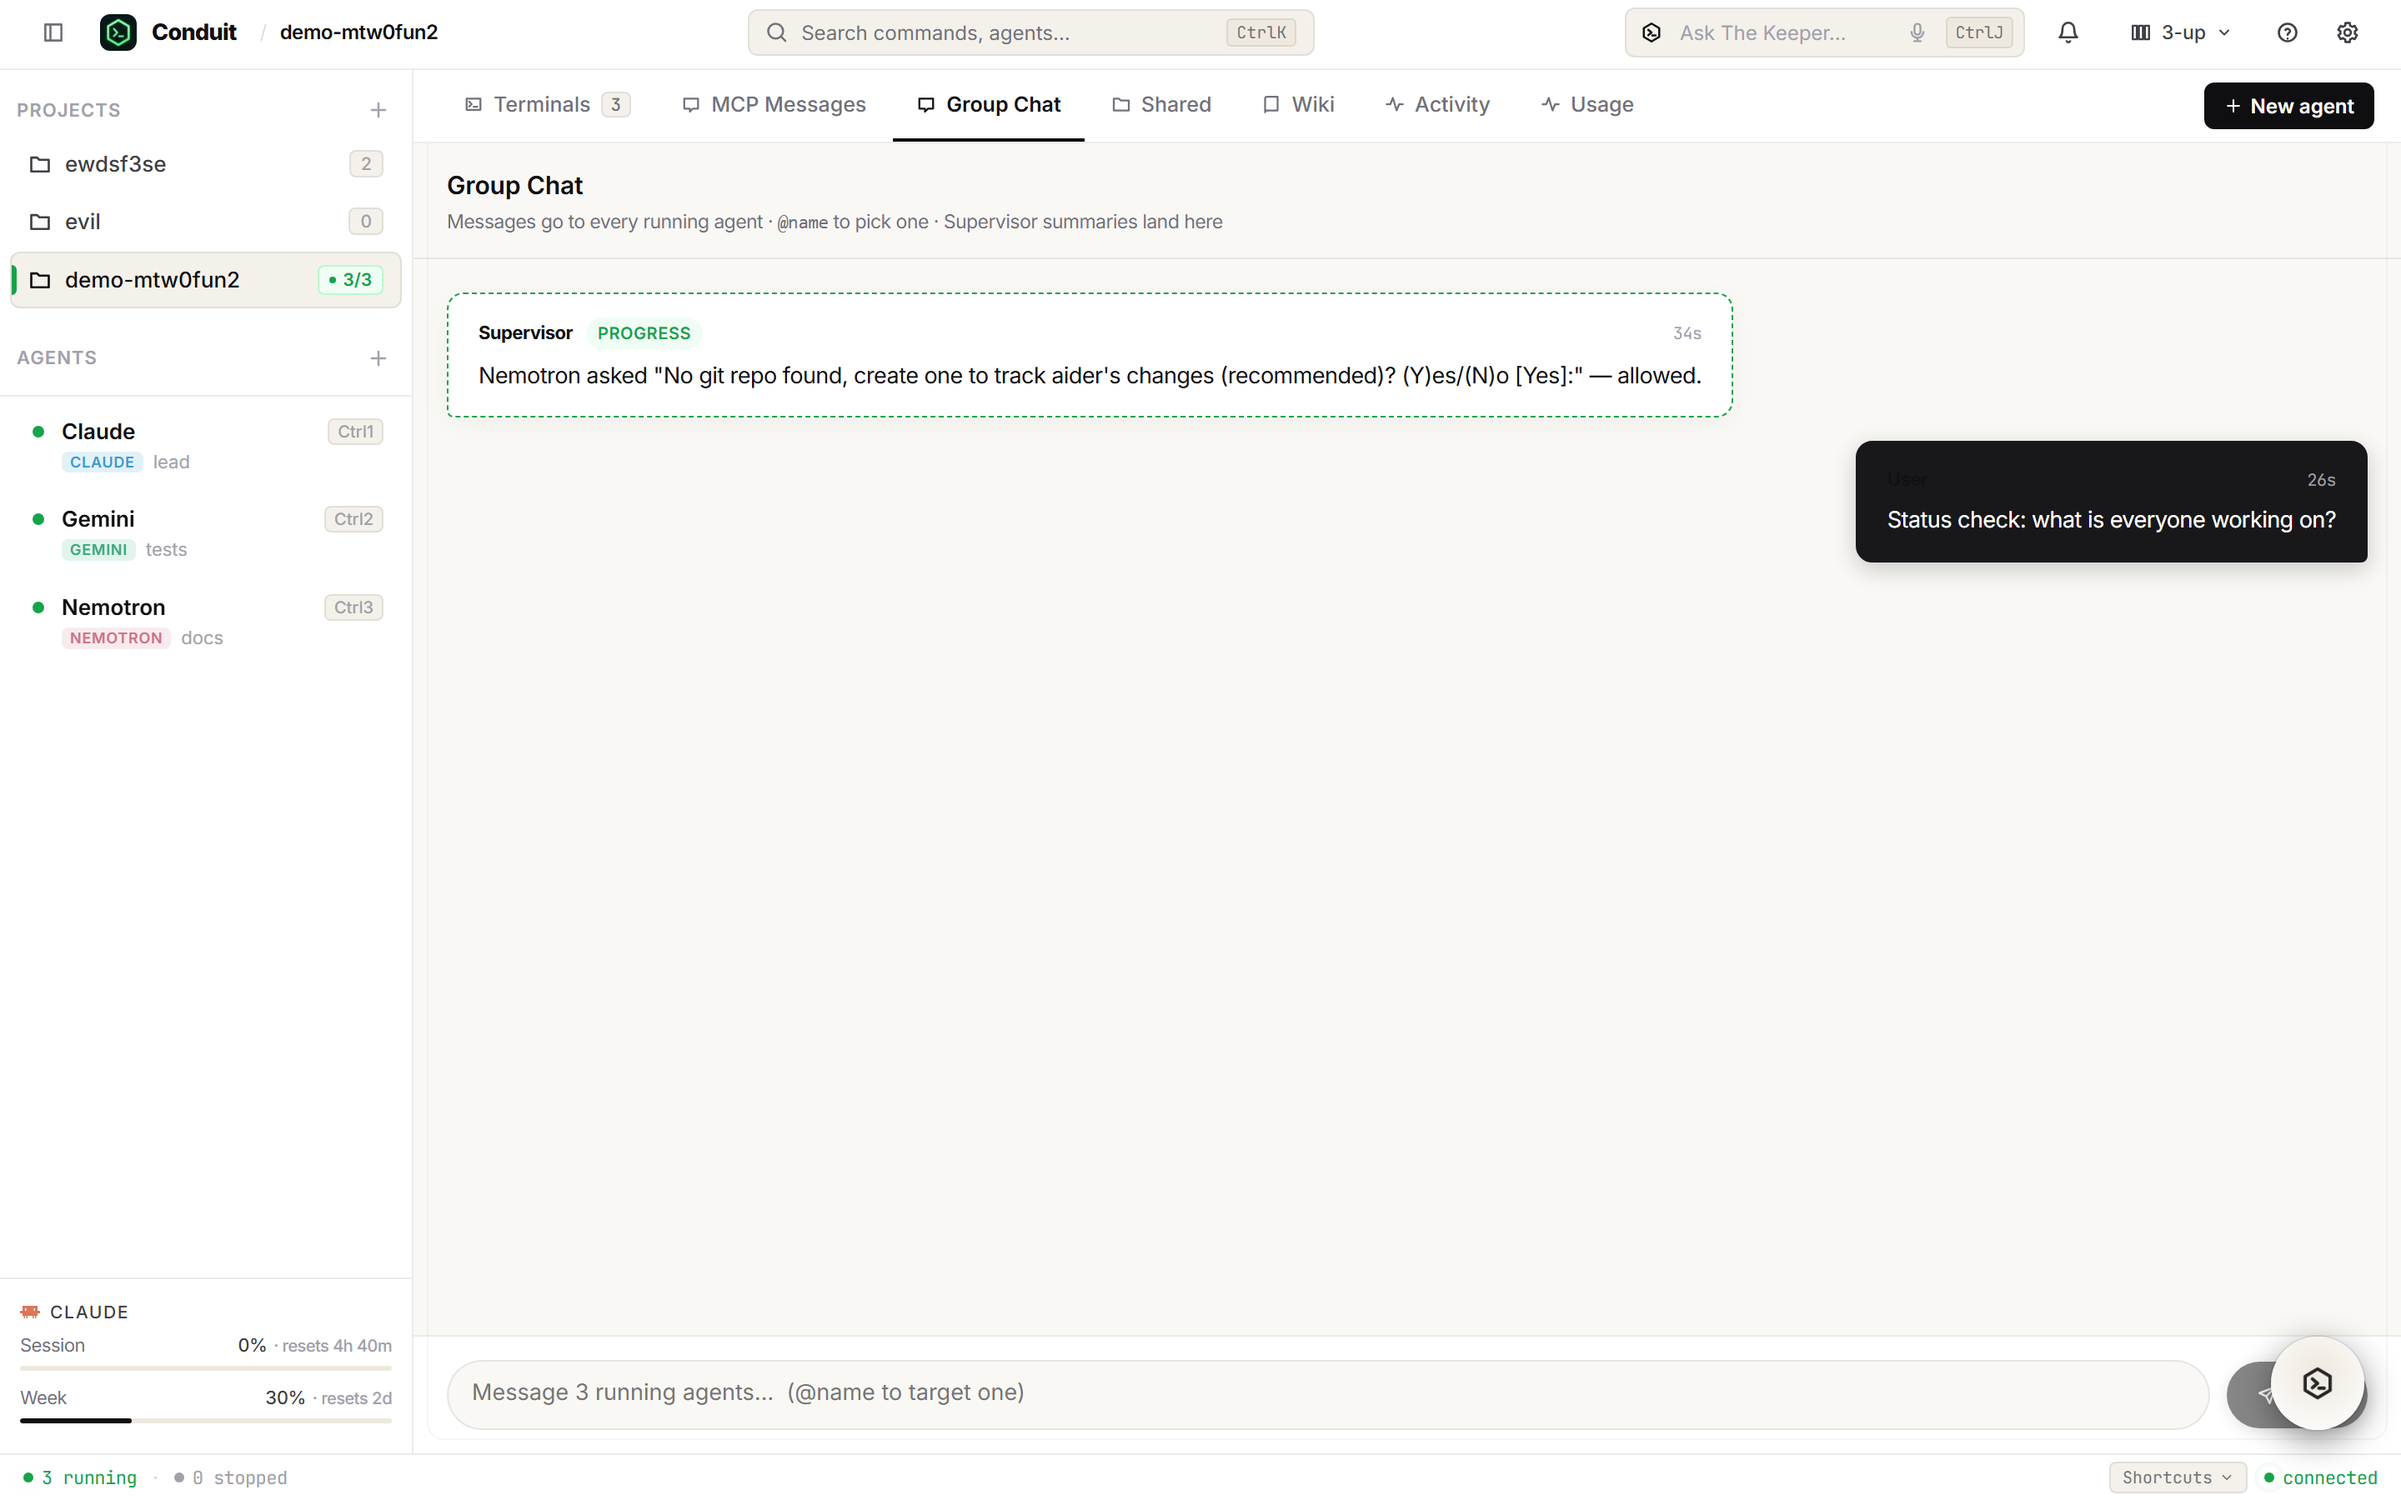
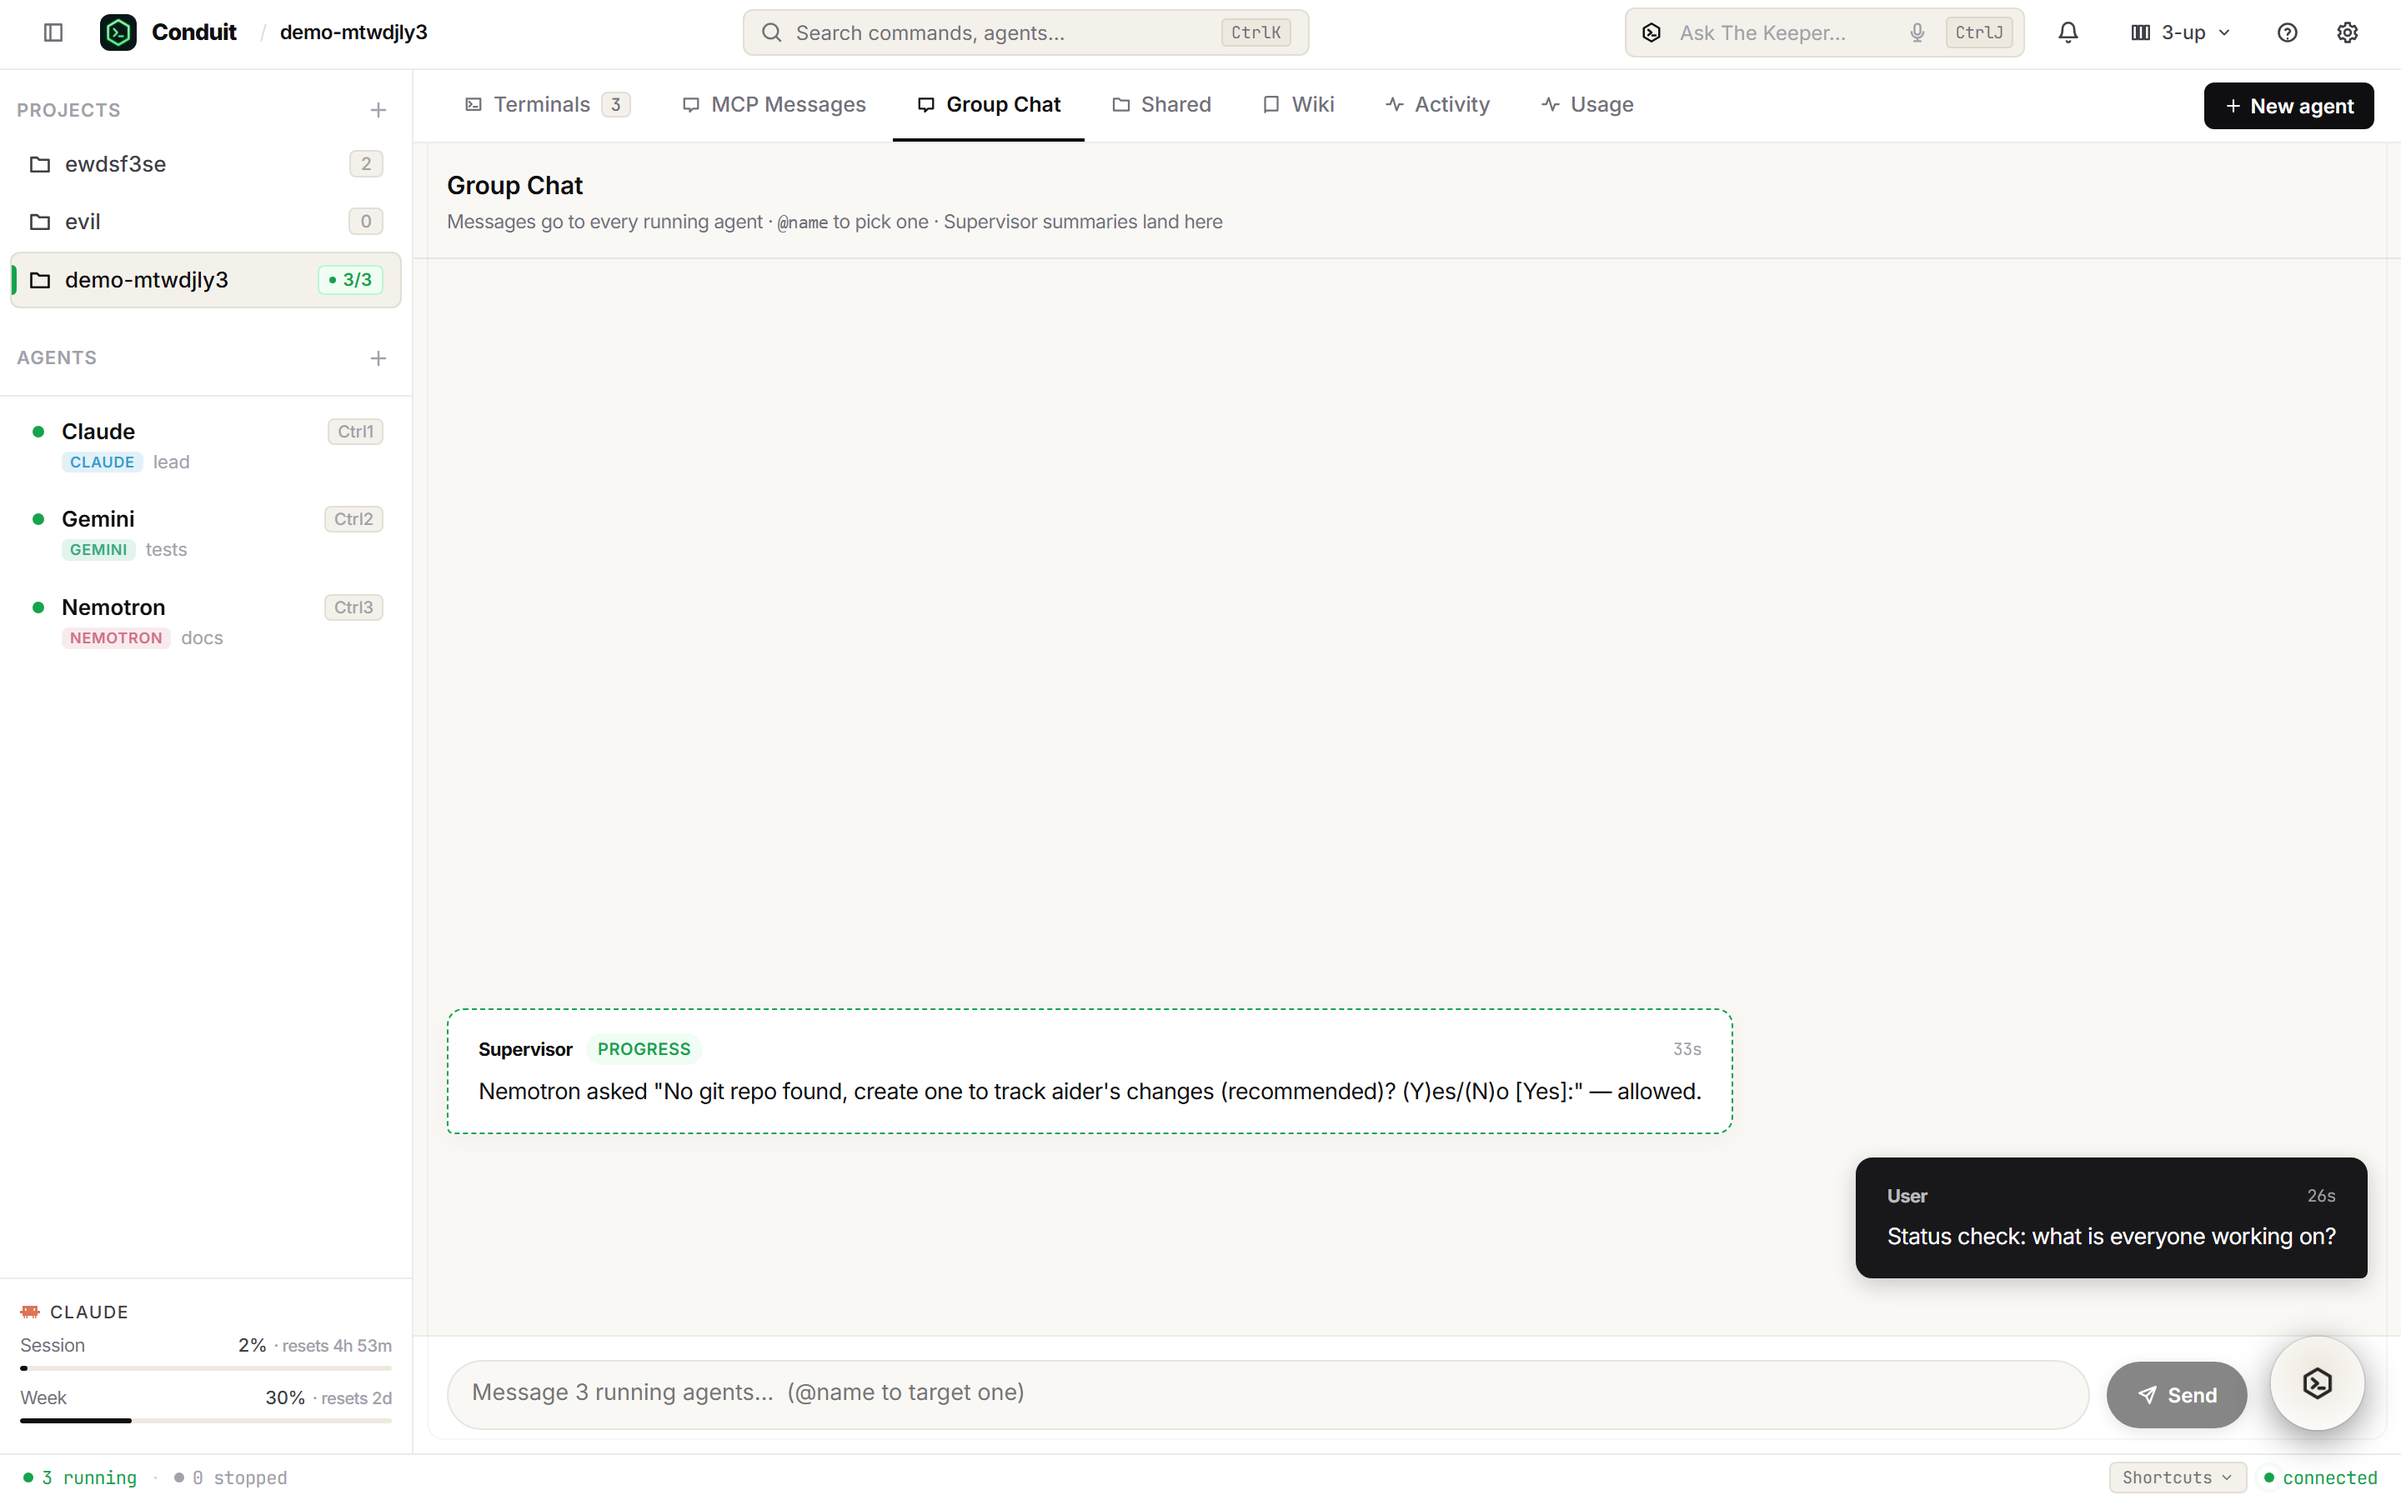
fix(ui): three things wrong with the group chat
Found by reading the generated screenshots rather than the code.

  - "User" was invisible on its own message. `.gc-msg.mine .gc-meta` sets white,
    but the sender name sits in a <strong> and `.gc-meta strong` is the more
    specific selector — so it stayed at --text-0, near-black text on a
    near-black bubble.

  - The Keeper orb covered the Send button. The orb is `position: fixed` in the
    bottom-right corner, so anything anchored to the bottom of a panel lands
    underneath it; the button's right half was unclickable. The composer now
    reserves the orb's width.

  - The conversation filled from the top, leaving a few messages stranded above
    ~700px of empty panel with the composer far below. It anchors to the bottom
    now, the way every chat does.

The last one uses `margin-top: auto` on a pseudo-element rather than
`justify-content: flex-end`, because that combination with `overflow-y: auto`
makes the top of a long scrollback unreachable in several browsers.

Deliberately not changed: the settings modal appeared to clip its last line
mid-sentence, but that is a partially-scrolled row at the edge of a scrolling
body, which is correct.

diff --git a/client/src/styles.css b/client/src/styles.css
@@ -6848,6 +6848,18 @@ body.is-resizing .pane-resizer {
   gap: 14px;
 }
 
+/* Anchor the conversation to the bottom, the way every chat does: a few
+   messages should sit just above the composer rather than stranded at the top
+   of 700px of empty panel.
+
+   `margin-top: auto` on a pseudo-element rather than `justify-content:
+   flex-end`, because that combination with `overflow-y: auto` makes the top of
+   a long scrollback unreachable in several browsers. */
+.gc-list::before {
+  content: '';
+  margin-top: auto;
+}
+
 /* AI Assistant / Agent task card */
 .gc-msg {
   align-self: flex-start;
@@ -6874,6 +6886,13 @@ body.is-resizing .pane-resizer {
 
 .gc-msg.mine .gc-meta {
   opacity: 0.7;
+  color: #ffffff;
+}
+
+/* The sender name sits in a <strong>, and `.gc-meta strong` is more specific
+   than the rule above — so "User" stayed near-black on the near-black bubble
+   and was effectively invisible. */
+.gc-msg.mine .gc-meta strong {
   color: #ffffff;
 }
 
@@ -7010,7 +7029,11 @@ body.is-resizing .pane-resizer {
 }
 
 .gc-compose {
-  padding: 14px 20px;
+  /* The Keeper orb is `position: fixed` in the bottom-right corner, so
+     anything anchored to the bottom of this panel lands underneath it. The
+     send button was half-covered and unclickable at its right edge. Reserve
+     the orb's width plus its margin. */
+  padding: 14px 92px 14px 20px;
   border-top: 1px solid var(--border);
   background: var(--bg-1);
 }
